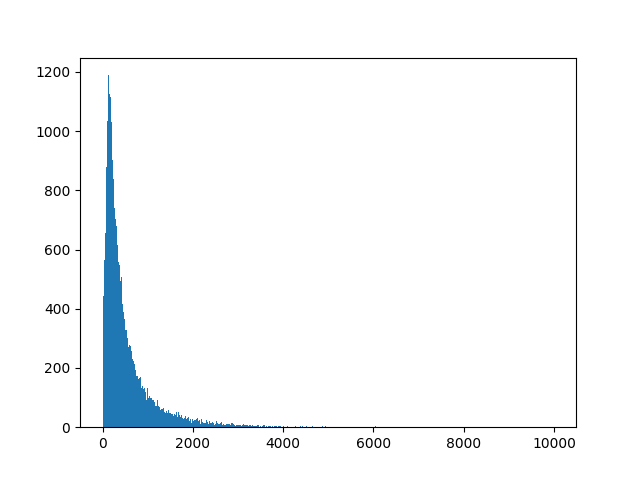
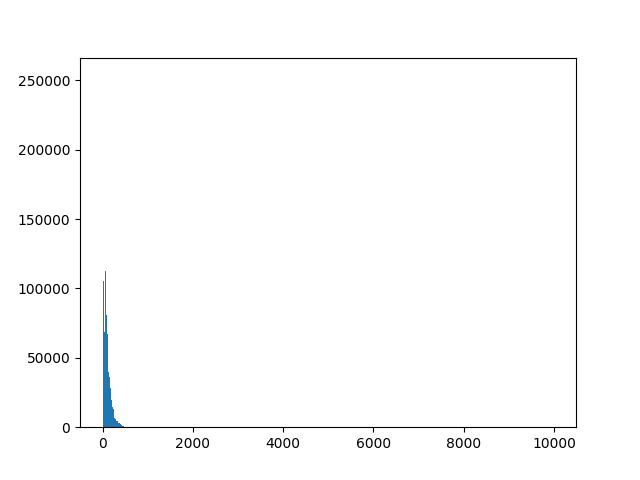
up

diff --git a/readeve.py b/readeve.py
@@ -3,7 +3,7 @@ import tifffile
 import matplotlib.pyplot as plt
 from itertools import product
 
-path = f"eve_data/Simulated/2025-02-27/Tracking evb diffusion_coefficient=[0.01, 0.1] background_level=50.0"
+path = f"eve_data/Experimental/2022-12-08"
 filename = f"{path}/Events.npy"
 new_filename = f"{path}/Events.npz"
 imagename = f"{path}/Events_image.npz"
@@ -32,19 +32,24 @@ for idx, (p, t, y, x) in enumerate(fun(data)):
     xs[idx] = x
 np.savez(new_filename, x=xs, y=ys, time_stamps=time_stamps, polarity=polarity)
 """
+
+
+upper_t_limit = 50000000 # 50sec
+
 """
 gt_data = np.load(gt)
-print(gt_data)
 gt_xranges = []
 gt_yranges = []
 gt_tranges = []
 for gt_d in gt_data:
-    gt_xranges.append([max(0, gt_d[4] - 10), gt_d[4] + 10])
-    gt_yranges.append([max(0, gt_d[3] - 10), gt_d[3] + 10])
-    gt_tranges.append([max(0, gt_d[2] - 2000), gt_d[3] + 2000])
+    if gt_d[2] < upper_t_limit:
+        gt_xranges.append(np.arange(int(max(0, gt_d[4] - 15)), int(gt_d[4] + 15)))
+        gt_yranges.append(np.arange(int(max(0, gt_d[3] - 15)), int(gt_d[3] + 15)))
+        gt_tranges.append([int(max(0, gt_d[2] - 20000)), int(gt_d[2] + 500000)])
+xranges = gt_xranges
+yranges = gt_yranges
+tranges = gt_tranges
 """
-
-upper_t_limit = 50000000 # 50sec
 
 data = np.load(new_filename)
 xs = data['x']
@@ -88,7 +93,7 @@ tranges = [[0, 500000],
            [12800000, 14000000],
            ]
 """
-
+"""
 #signal excluded ROIs
 xranges = [np.arange(0, 45),
            np.arange(0, 45)
@@ -99,14 +104,18 @@ yranges = [np.arange(0, 45),
 tranges = [[0, 10000000],
            [0, 10000000],
            ]
-
-
-for xrange, yrange, trange in zip(xranges, yranges, tranges):
+"""
+"""
+for iii, (xrange, yrange, trange) in enumerate(zip(xranges, yranges, tranges)):
+    print(f"{iii} / {len(xranges)}")
     for arr_x, arr_y in product(xrange, yrange):
         indices = np.argwhere((xs == arr_x) & (ys == arr_y)).flatten()
 
         target_ts = ts[indices].astype(np.int32)
         target_ps = ps[indices].astype(np.int32)
+        print(arr_x, arr_y)
+        print(target_ts)
+        print(target_ps)
 
         roi_ts = np.argwhere((trange[0] < target_ts) & (target_ts < trange[1])).flatten()
         
@@ -119,8 +128,6 @@ for xrange, yrange, trange in zip(xranges, yranges, tranges):
         positive_ts = target_ts[positive_args]
         negative_ts = target_ts[negative_args]
 
-        #if len(target_ts) >= 2:
-        #    target_ts = target_ts[target_ps]
 
         diff_ts = abs(np.diff(target_ts))
         diff_ts_concat.extend(list(diff_ts))
@@ -147,7 +154,7 @@ plt.savefig('2.png')
 plt.show()
 #array_ = xs[:,0]
 
-
+"""
 
 
 """
@@ -168,5 +175,5 @@ np.savez(imagename, data=grid)
 
 data = np.load(imagename)['data'][:10000,:,:]
 print(data, data.dtype)
-tifffile.imwrite(f'eve_data/Simulated/2025-02-27/Tracking evb diffusion_coefficient=[0.1, 1.0] background_level=50.0/video.tiff', data=data, imagej=True)
+tifffile.imwrite(f"eve_data/Experimental/2022-12-08/video_{int(timebin / 1000)}ms.tiff", data=data, imagej=True)
 """
